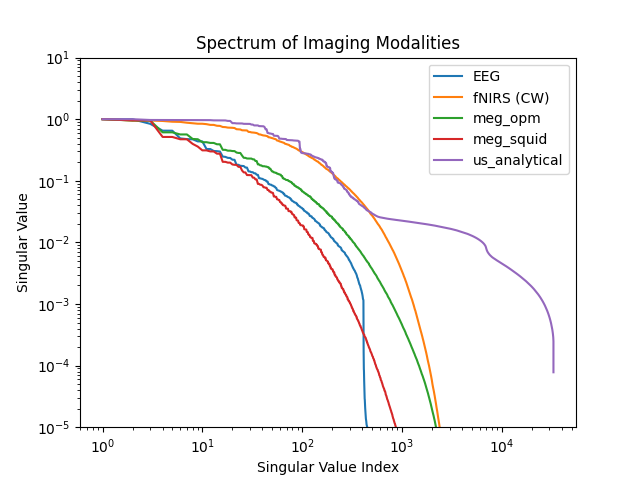
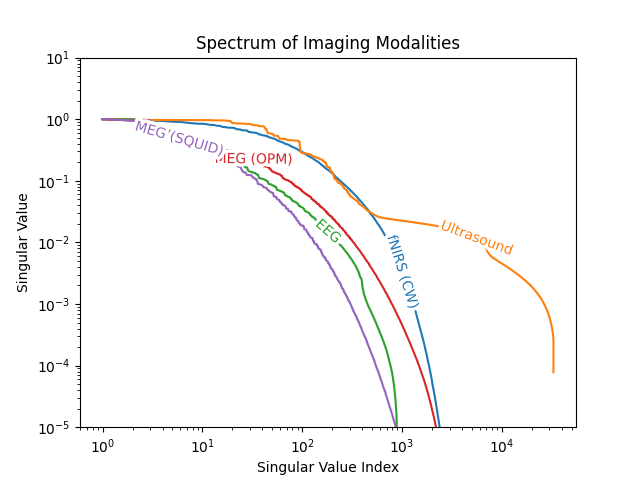
add label lines

diff --git a/guti/data_utils.py b/guti/data_utils.py
@@ -95,18 +95,12 @@ def load_all_svds() -> Dict[str, Tuple[NDArray, Optional[Parameters]]]:
         Dictionary mapping modality names to tuples of (singular_values, Parameters)
         where Parameters is a Parameters object or None if no parameters were saved
     """
-    filenames_to_labels = {
-        "eeg_openmeeg": "EEG",
-        "fnirs_analytical_cw": "fNIRS (CW)",
-    }
-
     results = {}
     for filename in os.listdir(RESULTS_DIR):
         if filename.endswith("_svd_spectrum.npz"):
             modality_name = filename.replace("_svd_spectrum.npz", "")
             # Use label if exists, otherwise use modality_name
-            label = filenames_to_labels.get(modality_name, modality_name)
-            results[label] = load_svd(modality_name)
+            results[modality_name] = load_svd(modality_name)
     return results
 
 
